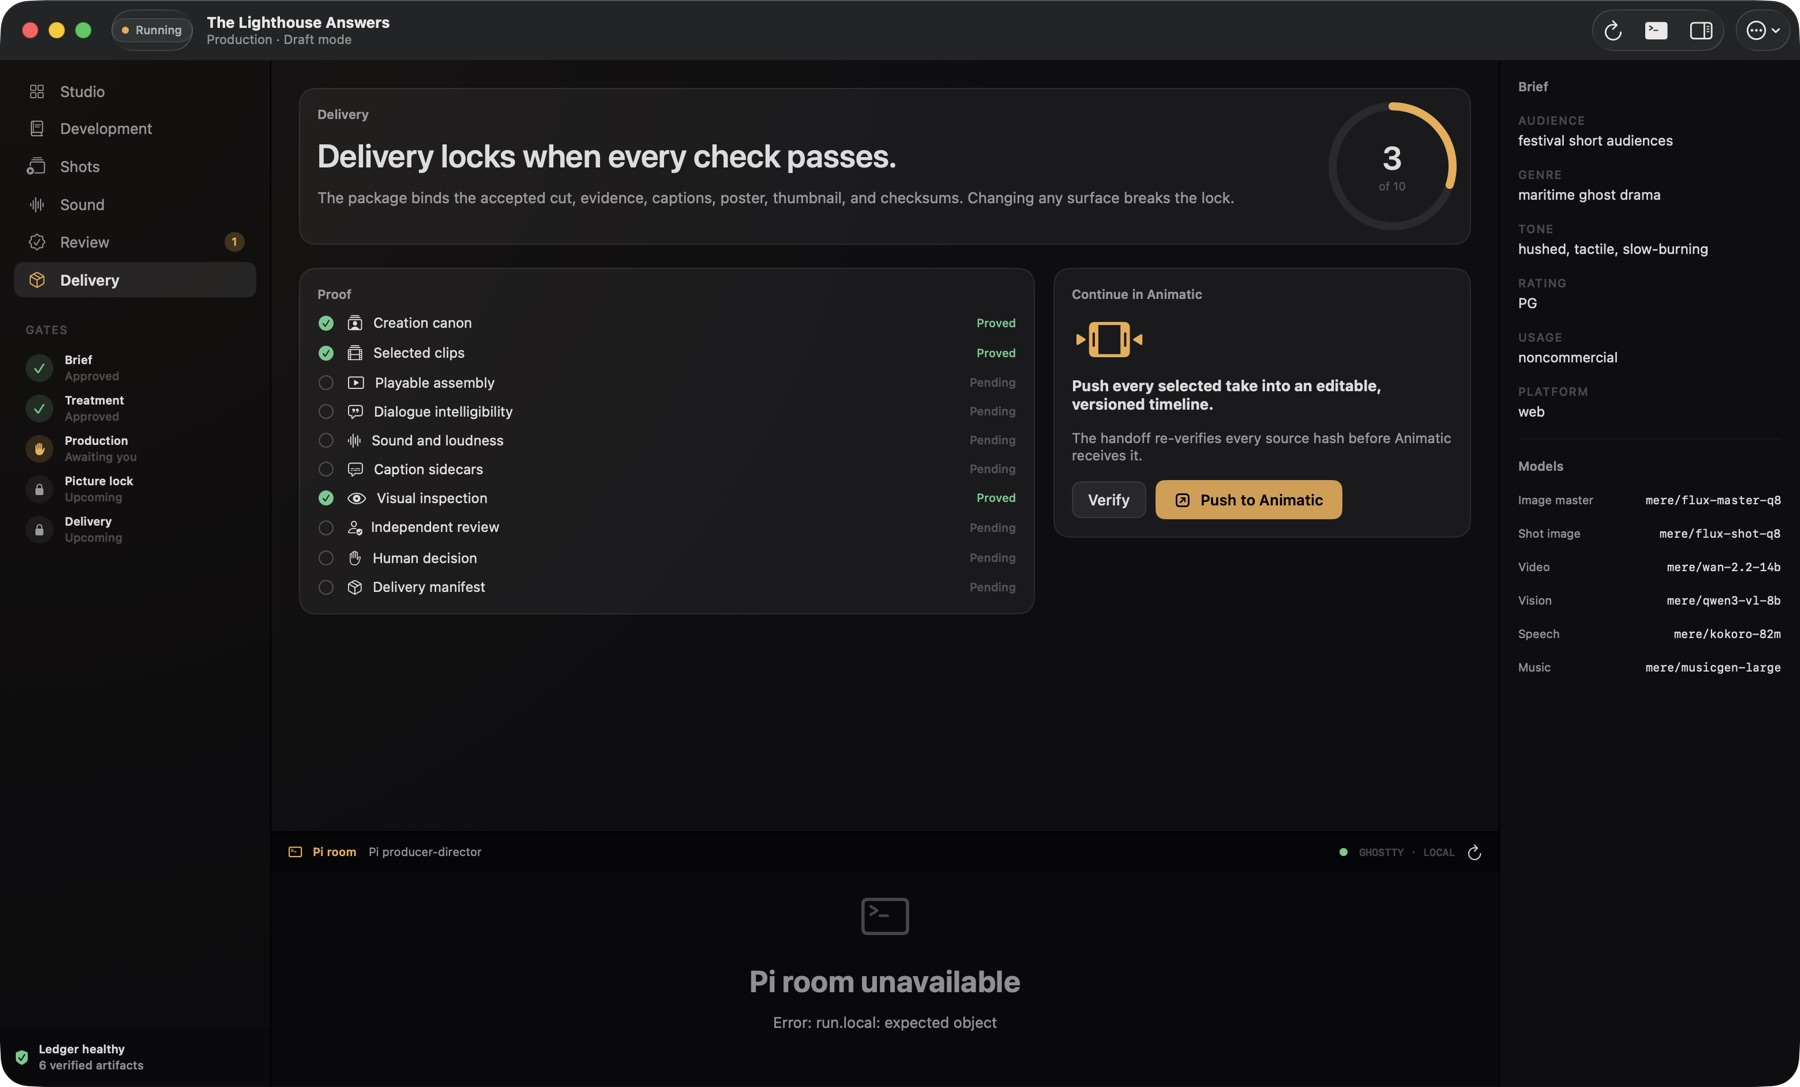
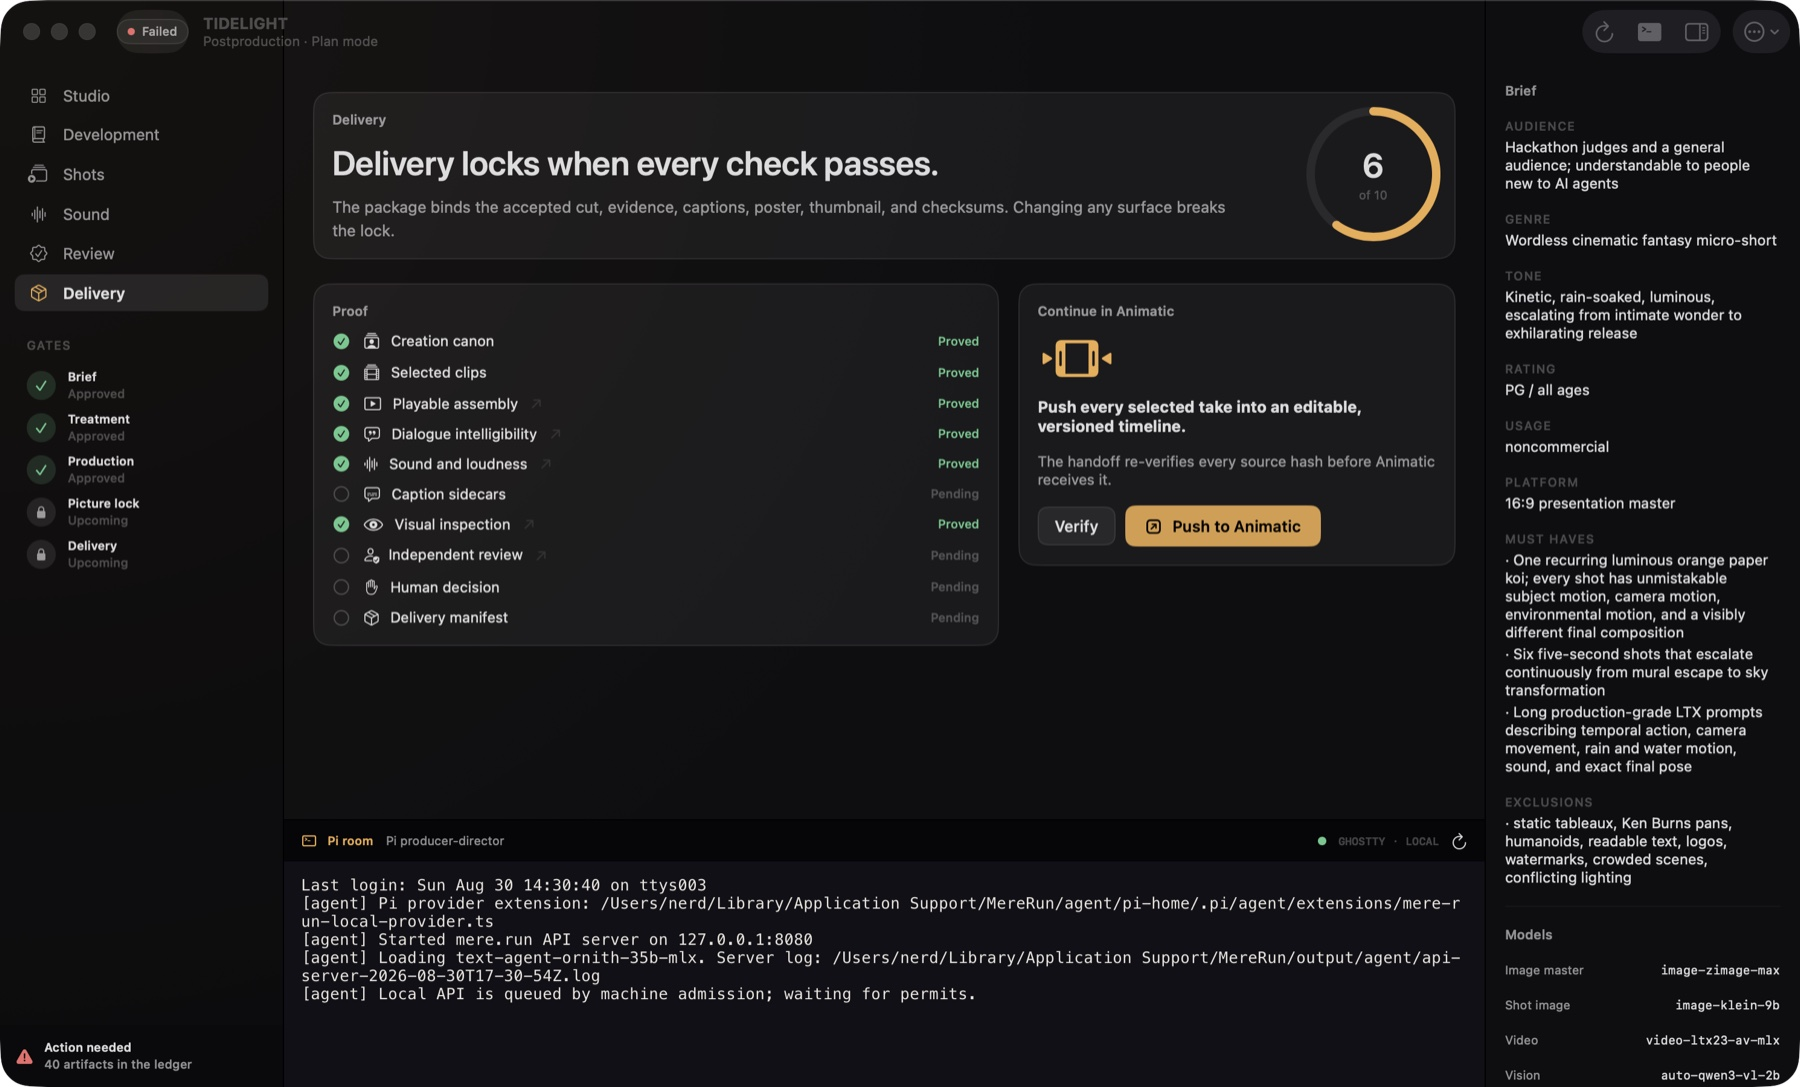
Fresh screenshots of the real app for README and grace.mere.run (#13)
All five images retaken from the running app against real films:
sunwake's overview for the hero (idea in production, live render
activity, proof dial, Pi in the room) and tidelight for development,
shots (timeline + flagged-shot board), review (evidence panels), and
delivery. Captions on both surfaces catch up with what the app shows —
the timeline, Space to Quick Look, evidence readable in place, and the
honest delivery-lock phrasing.

Claude-Session: https://claude.ai/code/session_014VAdiGFZtNfus9oD8BHRqi

diff --git a/site/src/routes/+page.svelte b/site/src/routes/+page.svelte
@@ -60,7 +60,7 @@
     <figure class="shot">
       <img
         src="/assets/studio.jpg"
-        alt="The GRACE studio overview: proof dial, department board, and the next human gate"
+        alt="The GRACE studio overview: the film in production, live render activity, the proof dial, and Pi in the room"
         loading="eager"
       />
     </figure>
@@ -178,8 +178,8 @@
           />
         </div>
         <figcaption>
-          <b>Shot board.</b> Keyframes, takes, and transitions — hover a shot to preview its clip, right-click
-          to reroll.
+          <b>Shot board.</b> The whole film as a timeline, then shot by shot — hover to preview a clip,
+          press Space to Quick Look it, right-click to reroll.
         </figcaption>
       </figure>
       <figure class="screen">
@@ -199,12 +199,13 @@
         <div class="shot">
           <img
             src="/assets/review.jpg"
-            alt="Review screen with the proof checklist and studio review action"
+            alt="Review screen with the proof checklist and per-shot vision findings"
             loading="lazy"
           />
         </div>
         <figcaption>
-          <b>Review.</b> The checks gather the evidence. You watch the cut and make the final call.
+          <b>Review.</b> The evidence, readable in place: per-shot vision verdicts, technical QC, and
+          loudness. You watch the cut and make the final call.
         </figcaption>
       </figure>
       <figure class="screen">
@@ -216,8 +217,8 @@
           />
         </div>
         <figcaption>
-          <b>Delivery.</b> All ten checks passed: the finished film, its receipts, and a verified
-          push to Animatic.
+          <b>Delivery.</b> The film locks when every check passes: a receipt for each one, and a
+          verified push to Animatic.
         </figcaption>
       </figure>
     </div>

diff --git a/README.md b/README.md
@@ -16,7 +16,7 @@
 </p>
 
 <p align="center">
-  <img src=".github/assets/studio.jpg" width="840" alt="The GRACE studio overview: proof dial, department board, and the next approval waiting for you">
+  <img src=".github/assets/studio.jpg" width="840" alt="The GRACE studio overview: the film in production, live render activity, the proof dial, and Pi in the room">
 </p>
 
 GRACE is a multi-agent film studio that runs entirely on your Mac. You give it one sentence. A lead producer agent, running on Pi, builds a crew of specialist agents that write, plan, shoot, voice, and score a short film using local `mere.run` models. The production stops at five points and waits for your sign-off. Nothing ships without you.
@@ -57,7 +57,7 @@ Every department is an agent with a job, a status, and a paper trail.
 | <img src=".github/assets/shots.jpg" alt="Shot board"> | <img src=".github/assets/development.jpg" alt="Development"> |
 | **Shot board.** The whole film as a timeline, then shot by shot — hover to preview a clip, press Space to Quick Look it, right-click to reroll. | **Development.** Treatment, story beats, and the cast and location references the whole crew works from. |
 | <img src=".github/assets/review.jpg" alt="Review"> | <img src=".github/assets/delivery.jpg" alt="Delivery"> |
-| **Review.** The evidence, readable in place: per-shot vision verdicts, technical QC, and loudness. You watch the cut and make the final call. | **Delivery.** All ten checks passed: the finished film, its receipts, and a verified push to Animatic. |
+| **Review.** The evidence, readable in place: per-shot vision verdicts, technical QC, and loudness. You watch the cut and make the final call. | **Delivery.** The film locks when every check passes: a receipt for each one, and a verified push to Animatic. |
 
 ## Ten checks before it ships
 
